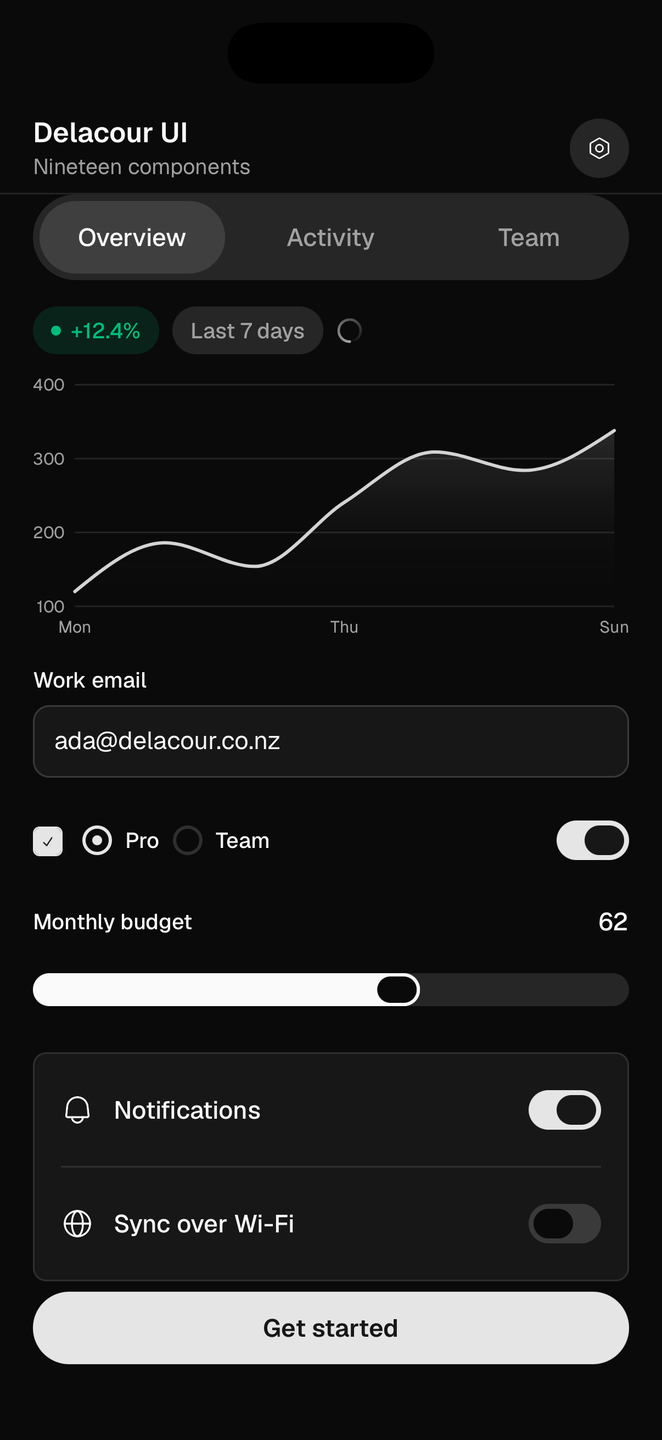
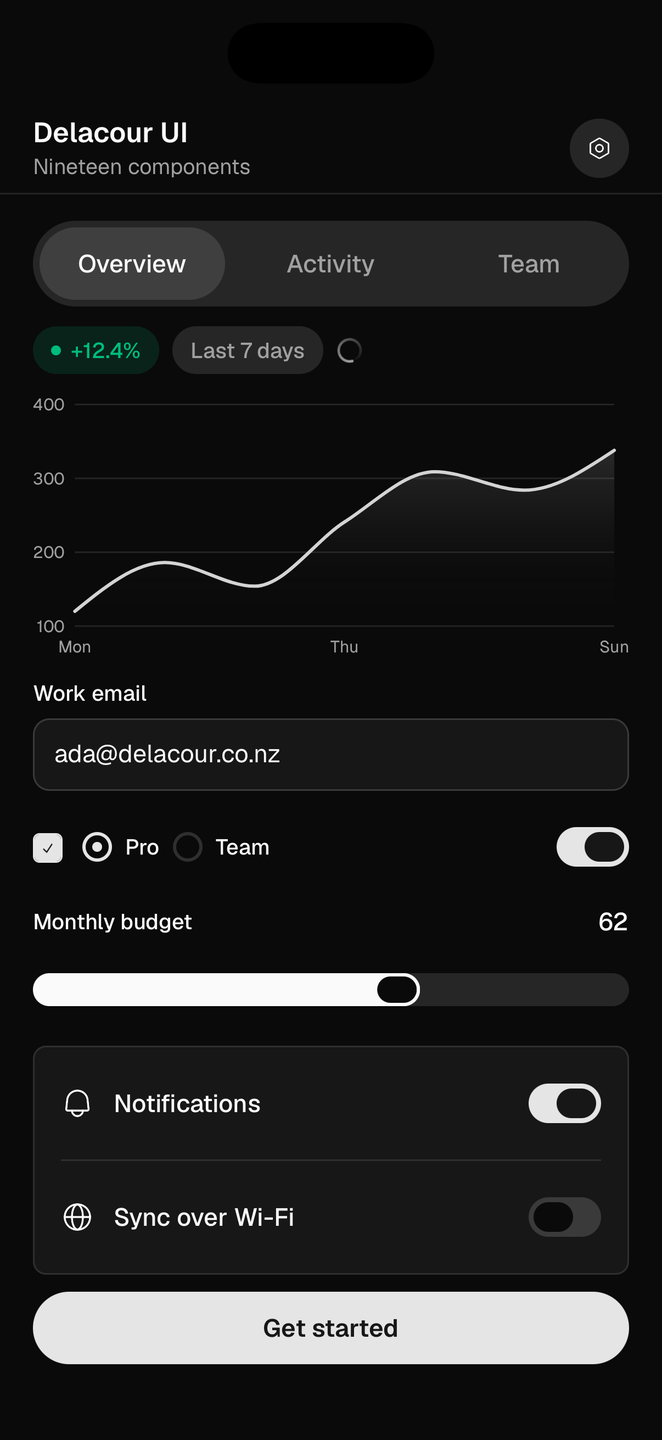
🎨 style(playground): let the showcase tab bar clear the navbar
The segmented bar sat flush against the navbar's hairline, which read as the
two being one control. `pt-4` on the content view, paid for by tightening the
inter-block gap to 12pt so the settings group still clears the footer.

The padding cannot go on `Screen.ScrollArea`: its content container forces
`py-0`, and container padding wraps the navbar spacer, so a `pt` there lands
behind the navbar rather than below it.

diff --git a/apps/playground/src/demos/screen/showcase.tsx b/apps/playground/src/demos/screen/showcase.tsx
@@ -55,7 +55,9 @@ const RANGES = [
  * `Screen.Footer` defaults to `overlay`, which draws no backing of its own — so
  * content that runs past the fold is sliced by the button rather than fading
  * under it. Adding a block here means taking the height back somewhere else, or
- * dropping the chart a size.
+ * dropping the chart a size. The `pt-4` is paid for by the tighter `gap-3`: it
+ * has to sit on this view rather than on the scroll area, because content
+ * container padding wraps the navbar spacer and would land *behind* the navbar.
  *
  * `Tabs` carries a `Tabs.List` and no `Tabs.Content` on purpose: the segmented
  * bar is the part worth photographing, and a panel below it would spend eighty
@@ -86,7 +88,7 @@ export function Demo(): ReactElement {
 			</Screen.Navbar>
 
 			<Screen.ScrollArea>
-				<View className="gap-4">
+				<View className="gap-3 pt-4">
 					<Tabs>
 						<Tabs.List>
 							<Tabs.Indicator />

diff --git a/apps/web/src/previews/manifest.ts b/apps/web/src/previews/manifest.ts
@@ -1267,10 +1267,10 @@ export const previews = {
 		width: 662,
 		height: 1440,
 		animated: false,
-		light: { poster: "/previews/screen/showcase/light.png?v=bf6534df981f" },
-		dark: { poster: "/previews/screen/showcase/dark.png?v=bf6534df981f" },
-		sourceHash: "bf6534df981f",
-		capturedAt: "2026-09-05T14:08:35.137Z",
+		light: { poster: "/previews/screen/showcase/light.png?v=6e4467d33cb0" },
+		dark: { poster: "/previews/screen/showcase/dark.png?v=6e4467d33cb0" },
+		sourceHash: "6e4467d33cb0",
+		capturedAt: "2026-09-05T14:13:51.353Z",
 		device: "iPhone 17 Pro · iOS 26.3",
 	},
 	"separator/inside-a-list-group": {
